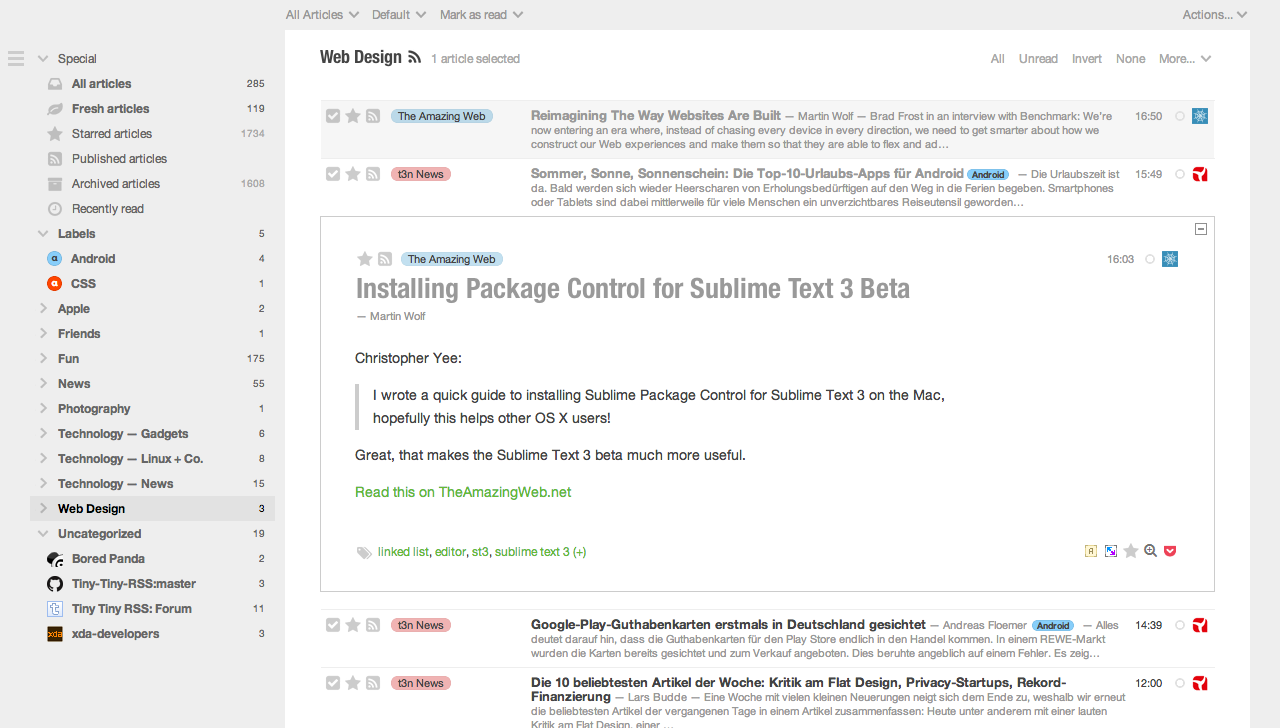
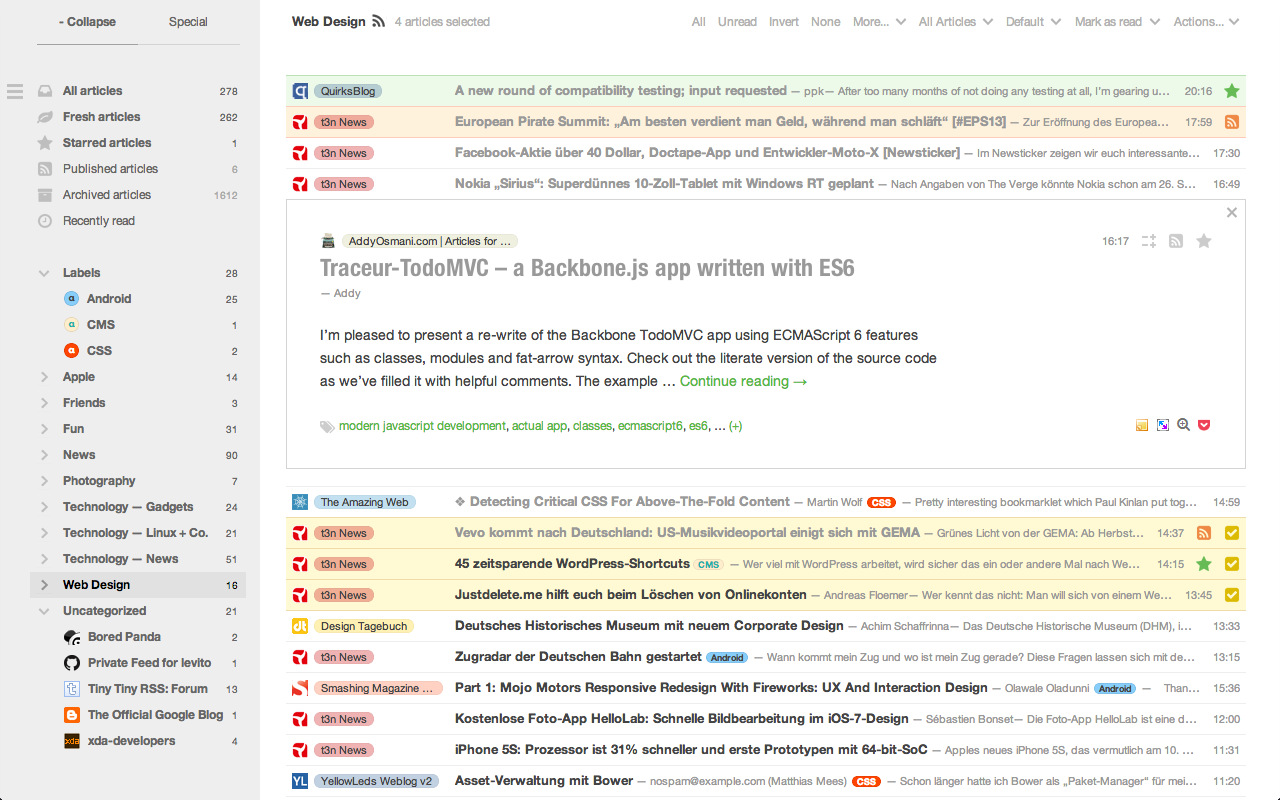
new screenshots

diff --git a/feedly.css b/feedly.css
@@ -630,7 +630,7 @@ a:hover {
 }
 #ttrssMain #main_toolbar_form > .dijitButton .dijitButtonContents {
 	position: absolute;
-	top: 84px;
+	top: 83px;
 	left: 7px;
 	padding: 0;
 	width: 16px;
@@ -913,7 +913,7 @@ a:hover {
 	-moz-box-sizing: border-box;
 	box-sizing: border-box;
 	position: relative;
-	padding-top: 12px;
+	padding-top: 42px;
 	height: 100%;
 	text-align: center;
 }

diff --git a/README.md b/README.md
@@ -7,10 +7,14 @@ For the best experience, use a current browser. IE9 and older versions are not s
 
 This theme is tested in Chrome on a regular basis and has proved to work fine in IE10 and recent versions of Safari, Firefox and Opera (15+) as well.
 
-![expandable](https://raw.github.com/levito/tt-rss-feedly-theme/master/feedly-screenshots/feedly-expandable.png)
+![expandable](https://raw.github.com/levito/tt-rss-feedly-theme/master/feedly-screenshots/feedly-expandable.png?130826)
 
-![expanded](https://raw.github.com/levito/tt-rss-feedly-theme/master/feedly-screenshots/feedly-expanded.png)
+![expanded](https://raw.github.com/levito/tt-rss-feedly-theme/master/feedly-screenshots/feedly-expanded.png?130826)
 
-![traditional, wide, hidden sidebar](https://raw.github.com/levito/tt-rss-feedly-theme/master/feedly-screenshots/feedly-traditional.png)
+![traditional](https://raw.github.com/levito/tt-rss-feedly-theme/master/feedly-screenshots/feedly-traditional.png?130826)
+
+![traditional, wide, hidden sidebar](https://raw.github.com/levito/tt-rss-feedly-theme/master/feedly-screenshots/feedly-traditional-widescreen.png?130826)
+
+![preferences + layer](https://raw.github.com/levito/tt-rss-feedly-theme/master/feedly-screenshots/feedly-prefs-layer.png?130826)
 
 Licensed under the WTFPL
